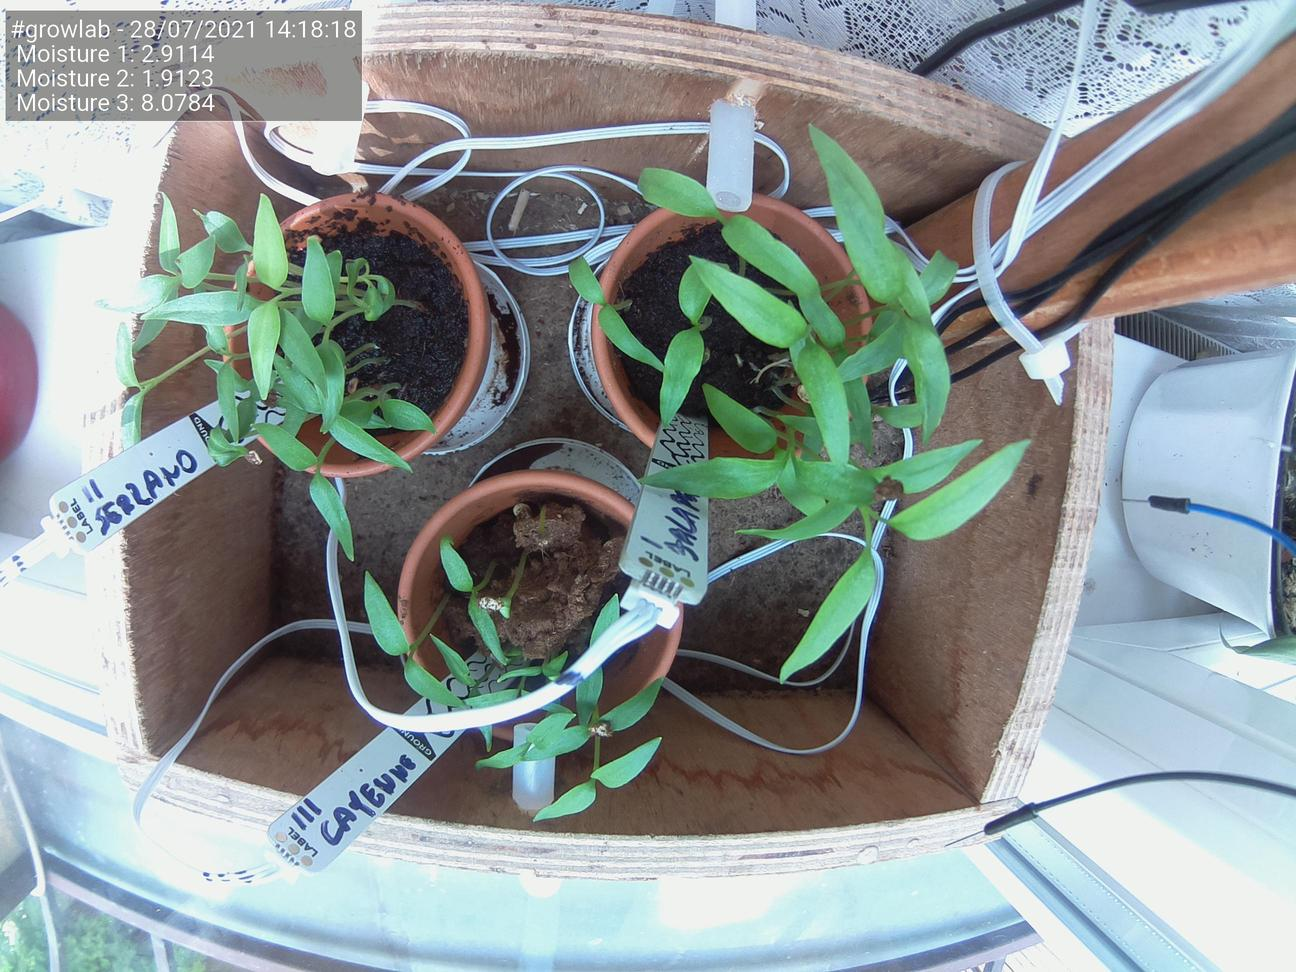
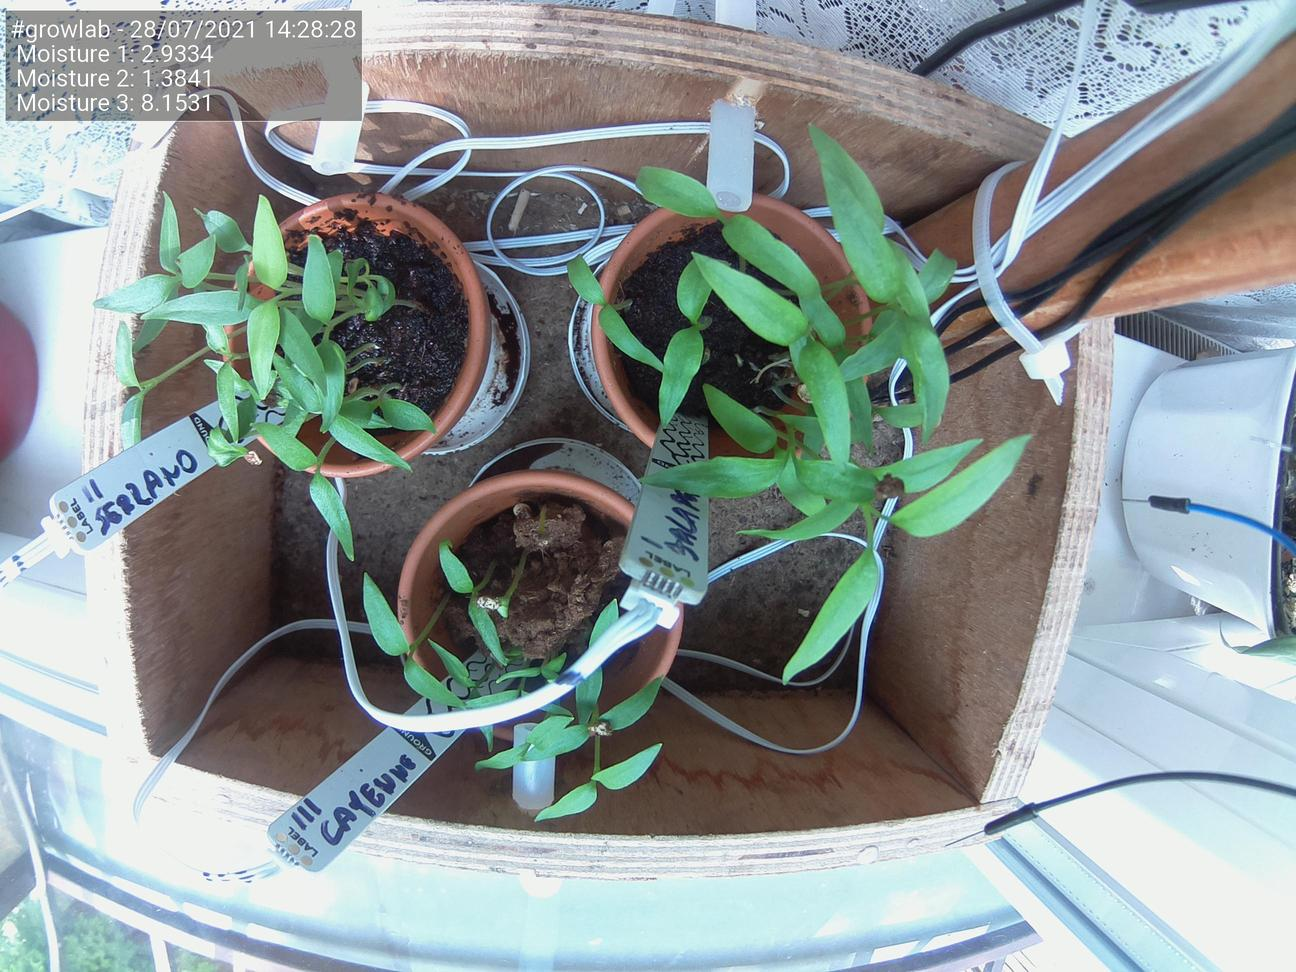
Update images at Wed 28 Jul 14:28:34 BST 2021

diff --git a/docs/index.html b/docs/index.html
@@ -51,25 +51,25 @@
                                 <td>Date</td>
                                 <td>28/07/2021</td>
                                 <td>Time</td>
-                                <td>14:18:18</td>
+                                <td>14:28:28</td>
                             </tr>
                             <tr>
                                 <td>Temperature</td>
                                 <td>N/A</td>
                                 <td>Moisture 1</td>
-                                <td>2.9114</td>
+                                <td>2.9334</td>
                             </tr>
                             <tr>
                                 <td>Humidity</td>
                                 <td>N/A</td>
                                 <td>Moisture 2</td>
-                                <td>1.9123</td>
+                                <td>1.3841</td>
                             </tr>
                             <tr>
                                 <td>Pressure</td>
                                 <td>N/A</td>
                                 <td>Moisture 3</td>
-                                <td>8.0784</td>
+                                <td>8.1531</td>
                             </tr>
                         </tbody>
                     </table>
@@ -77,7 +77,7 @@
 
                 <h5>Latest image</h5>
                 <div style="width: 85%;">
-                            <img class="figure-img img-fluid rounded" src="./preview.jpg?uid=1627478304.0474343">
+                            <img class="figure-img img-fluid rounded" src="./preview.jpg?uid=1627478914.1018605">
                 </div>
             </div>
         </div>
